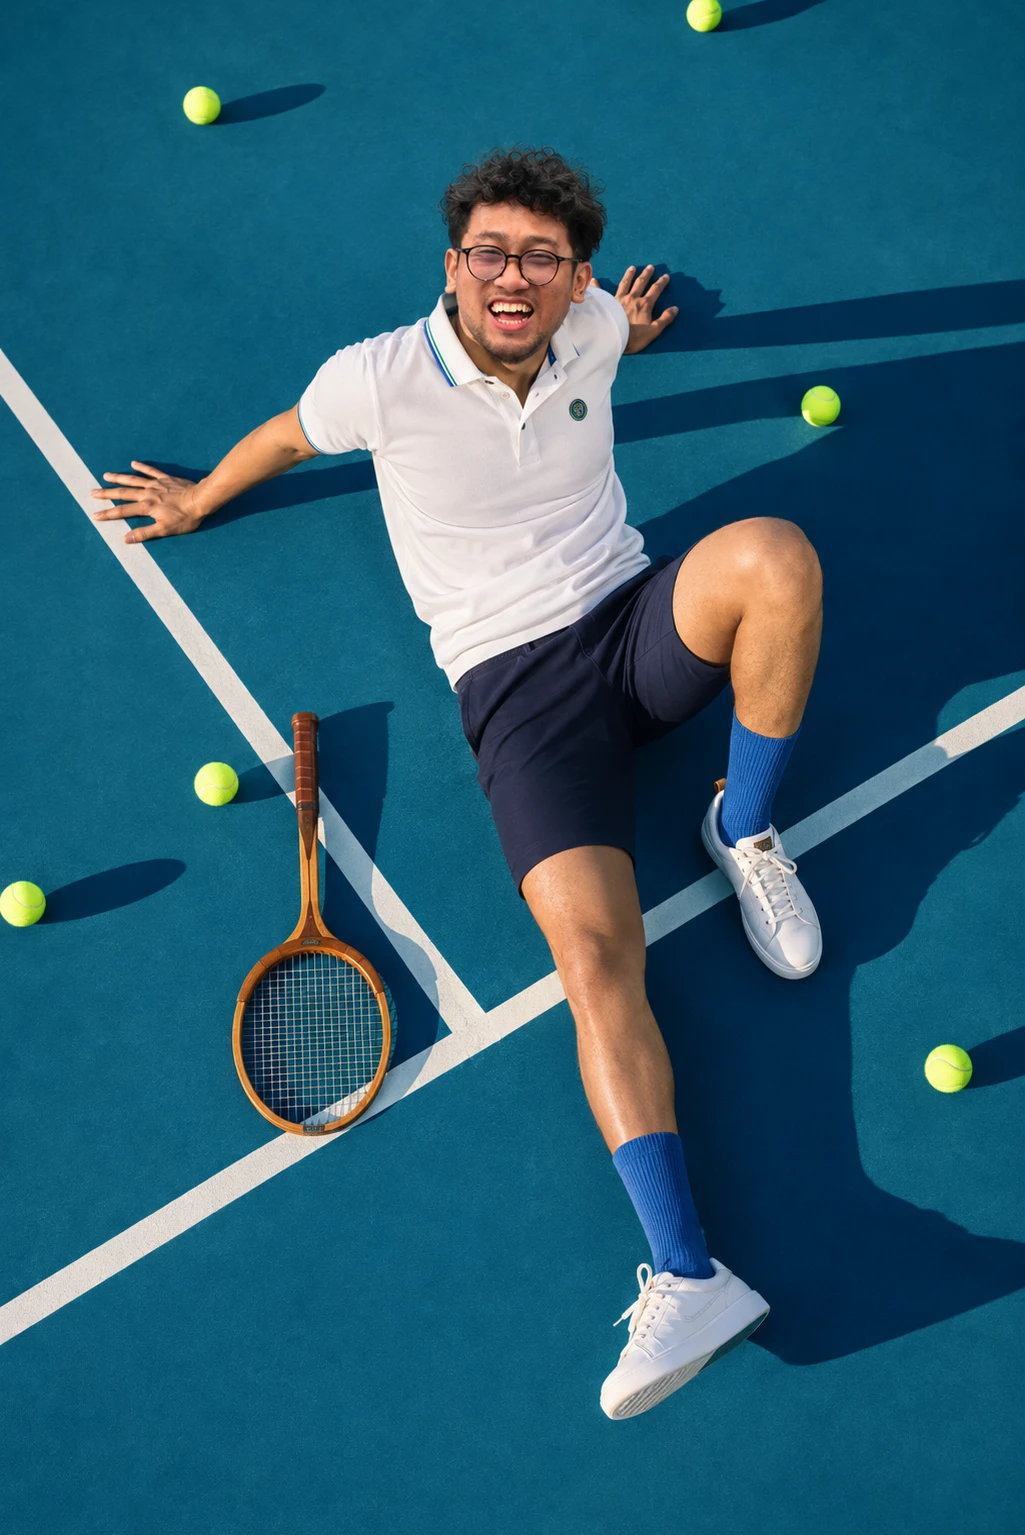
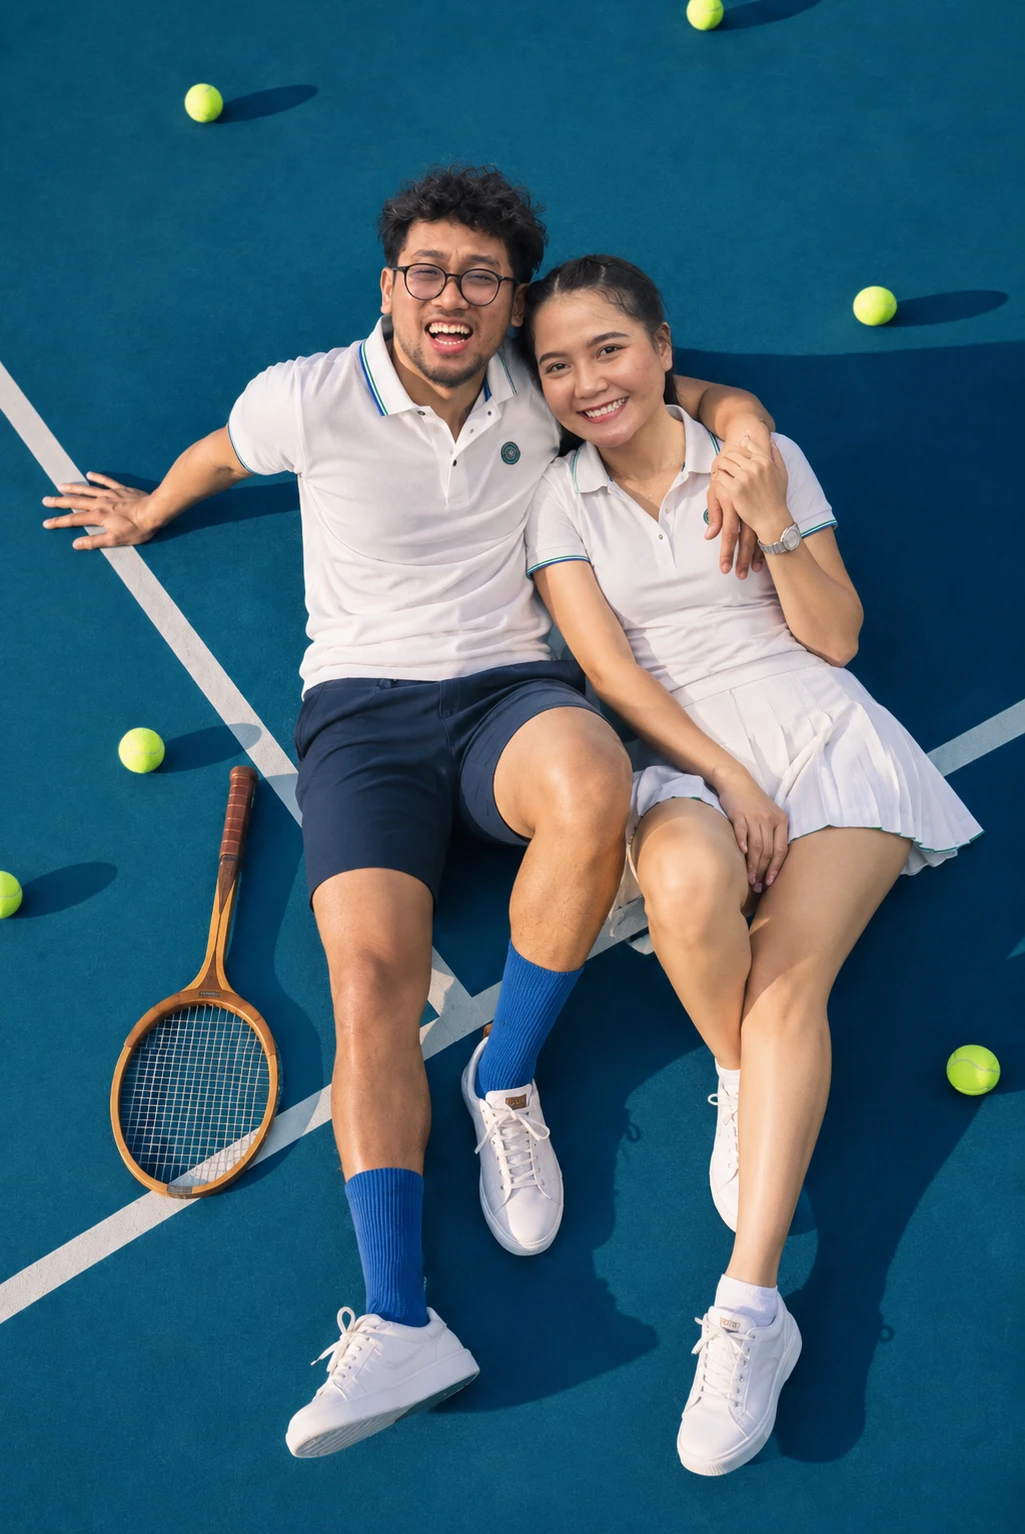
Update tennis card photo

diff --git a/index.html b/index.html
@@ -179,7 +179,7 @@
             <p>Gowes santai keliling kota di akhir pekan.</p>
           </article>
           <article class="sport" data-name="tennis" style="--c1:#2aa1b8;--c2:#0a3a52">
-            <img src="assets/images/tennis.webp" alt="Pemain tennis berbaring tertawa di lapangan biru dengan bola dan raket kayu" style="object-position:50% 25%" loading="lazy">
+            <img src="assets/images/tennis.webp" alt="Sepasang pemain tennis duduk berdampingan di lapangan biru dengan bola dan raket kayu" style="object-position:50% 28%" loading="lazy">
             <span class="sport__no">07</span>
             <span class="tag tag--glass">Court</span>
             <h3>Tennis</h3>
